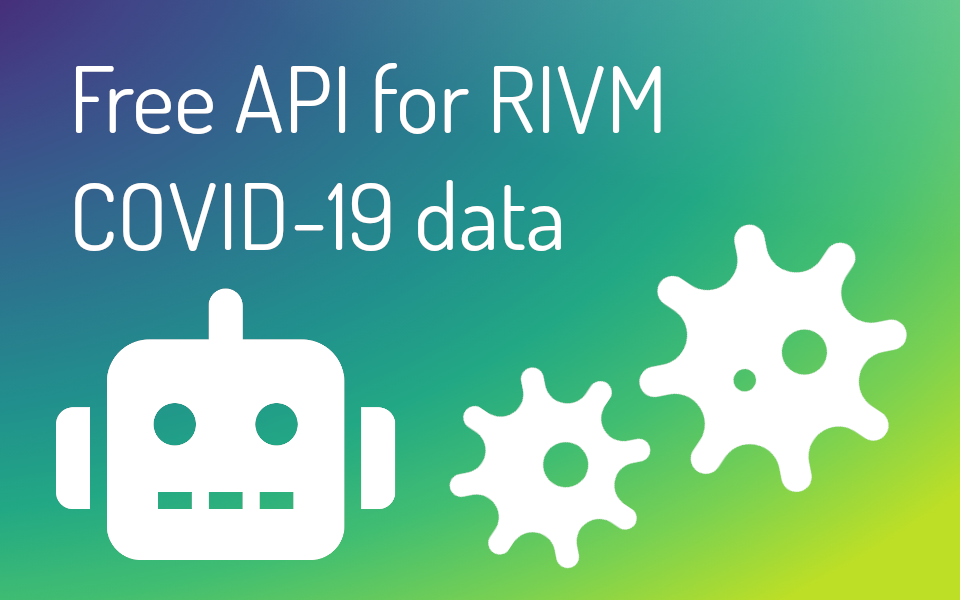
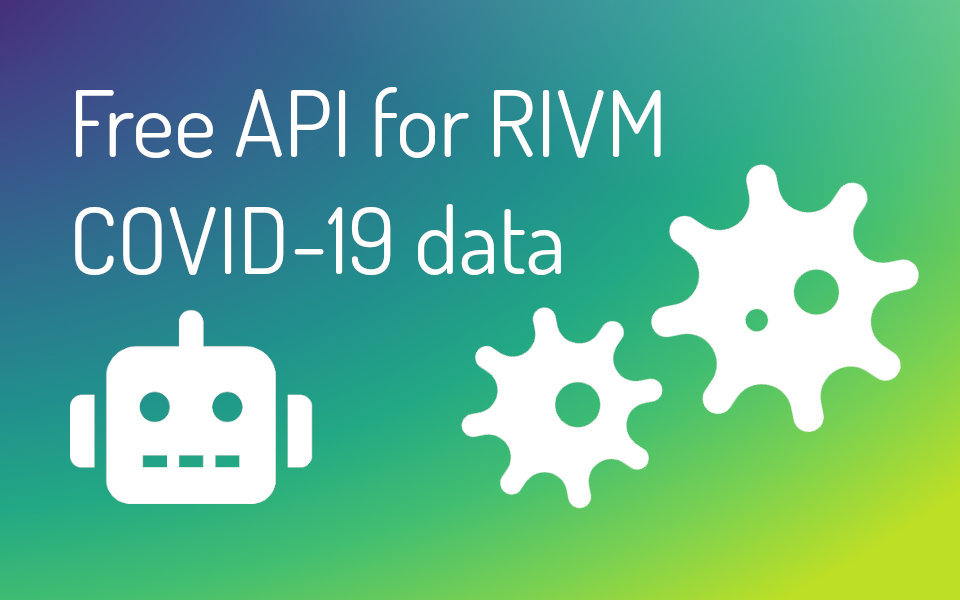
Adjusted meta tags and image

diff --git a/covid_api.html b/covid_api.html
@@ -1,6 +1,6 @@
 <html>
     <head>
-        <title>StephanHeijl.com - API</title>
+        <title>StephanHeijl.com - Free API for RIVM COVID-19 Data </title>
         <link rel="stylesheet" href="style.css" />
         <link rel="stylesheet" href="gradients.css" />
         <script src="zepto.min.js"></script>
@@ -9,11 +9,23 @@
 
         <script src="https://kit.fontawesome.com/af71bba04e.js" crossorigin="anonymous"></script>
         <meta name="viewport" content="width=device-width, initial-scale=1.0, maximum-scale=1.0, user-scalable=no" />
-        <meta name="twitter:card" content="summary" />
-        <meta name="twitter:site" content="@stephanheijl" />
-        <meta name="twitter:title" content="Free API for RIVM COVID-19 Data" />
-        <meta name="twitter:description" content="Today I am opening an easy to use API that exposes data on Dutch COVID-19 cases from the RIVM. The API can be used with industry standard tools for data analysis." />
-        <meta name="twitter:image" content="https://stephanheijl.com/img/covid_api_card.png" />
+        <!-- Primary Meta Tags -->
+        <meta name="title" content="Free API for RIVM COVID-19 Data">
+        <meta name="description" content="NL COVID API: A free, easy to use API that exposes data on Dutch COVID-19 cases from the RIVM.">
+
+        <!-- Open Graph / Facebook -->
+        <meta property="og:type" content="website">
+        <meta property="og:url" content="https://covid.ste[hanheijl.com/">
+        <meta property="og:title" content="Free API for RIVM COVID-19 Data">
+        <meta property="og:description" content="NL COVID API: A free, easy to use API that exposes data on Dutch COVID-19 cases from the RIVM.">
+        <meta property="og:image" content="stephanheijl.com/img/covid_api.png">
+
+        <!-- Twitter -->
+        <meta property="twitter:card" content="summary_large_image">
+        <meta property="twitter:url" content="https://covid.ste[hanheijl.com/">
+        <meta property="twitter:title" content="Free API for RIVM COVID-19 Data">
+        <meta property="twitter:description" content="NL COVID API: A free, easy to use API that exposes data on Dutch COVID-19 cases from the RIVM.">
+        <meta property="twitter:image" content="stephanheijl.com/img/covid_api.png">
     </head>
     <body>
         <nav>
